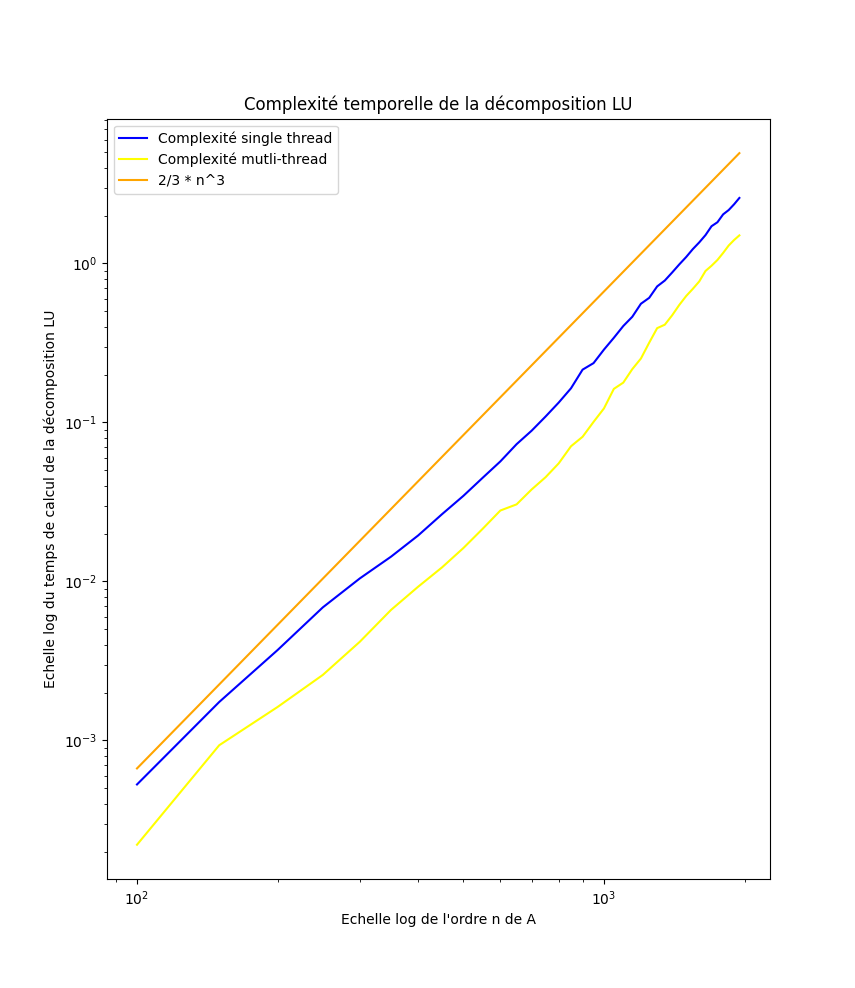
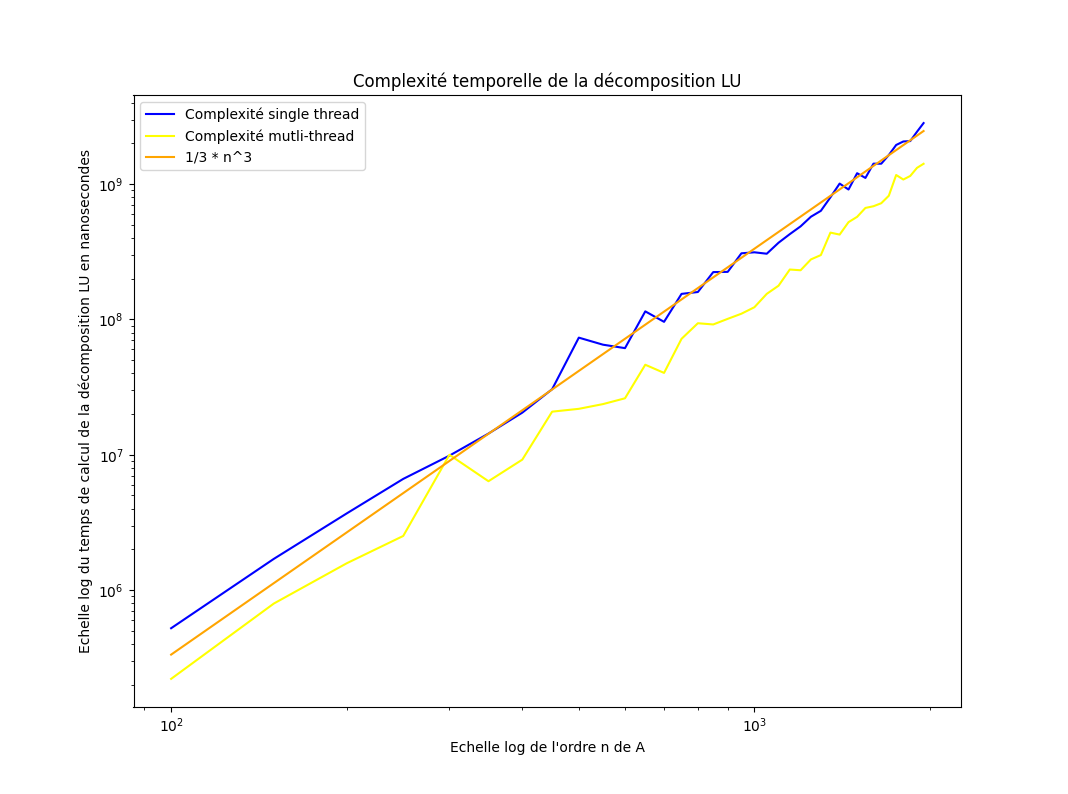
Correction to complexity graph

diff --git a/Devoir 2/decompositionLU.py b/Devoir 2/decompositionLU.py
@@ -37,10 +37,10 @@ def para_lu_factorization(A):
 # Dummy example to compile code with numba :
 A = np.array([[4, 3], [6, 3]], dtype=float)
 x = np.array([1,2], dtype=float)
-t1 = time.time()
+t1 = time.perf_counter()
 L, U = lu_factorization(A)
 L, U = para_lu_factorization(A)
-t2 = time.time()
+t2 = time.perf_counter()
 CompileTime = t2 - t1
 
 
@@ -49,23 +49,23 @@ times = np.zeros((ns.size))
 paraTimes = np.zeros((ns.size))
 for i in range(ns.size):
     A = np.random.randn(ns[i],ns[i])
-    t1 = time.time()
+    t1 = time.perf_counter_ns()
     L, U = lu_factorization(A)
-    t2 = time.time()
+    t2 = time.perf_counter_ns()
     times[i] = t2-t1
-    t1 = time.time()
+    t1 = time.perf_counter_ns()
     L, U = para_lu_factorization(A)
-    t2 = time.time()
+    t2 = time.perf_counter_ns()
     paraTimes[i] = t2-t1
 
 
 plt.loglog(ns, times, label="Complexité single thread", color="blue")
 plt.loglog(ns, paraTimes, label="Complexité mutli-thread", color="yellow")
-plt.loglog(ns, 2/3 * ns**3 * 1e-9,color="orange", label="2/3 * n^3")
+plt.loglog(ns, 1/3 * ns**3,color="orange", label="1/3 * n^3")
 plt.title("Complexité temporelle de la décomposition LU")
 plt.xlabel("Echelle log de l'ordre n de A")
-plt.ylabel("Echelle log du temps de calcul de la décomposition LU")
+plt.ylabel("Echelle log du temps de calcul de la décomposition LU en nanosecondes")
 plt.legend()
 plt.show()
 
-print(f"Compile = {CompileTime}, Compute = {np.sum(times) + np.sum(paraTimes)}")
+print(f"Compile = {CompileTime}, Compute = {(np.sum(times) + np.sum(paraTimes))*1e-9}")

diff --git a/Devoir 2/unitTests.py b/Devoir 2/unitTests.py
@@ -1,3 +1,26 @@
 import numpy as np
+import matplotlib.pyplot as plt
 
-print(np.linspace(1,10, 10,dtype=int))
+A = np.random.randn(5,3)
+
+# L = np.tril(A)
+# U = np.triu(A)
+# 
+# ltl = L.T @ L
+# utu = U.T @ U
+# ll = L @ L
+# uu = U @ U
+# 
+# fig, axs = plt.subplots(2,2)
+# axs[0][0].imshow(ltl, cmap="Blues", label="ltl")
+# axs[0][0].set_title("L.T @ L")
+# axs[0][1].imshow(utu, cmap="Blues", label="utu")
+# axs[0][1].set_title("U.T @ U")
+# axs[1][0].imshow(ll, cmap="Blues", label="ll")
+# axs[1][0].set_title("L @ L")
+# axs[1][1].imshow(uu, cmap="Blues", label="uu")
+# axs[1][1].set_title("U @ U")
+
+
+plt.imshow(A.T @ A, cmap="Blues")
+plt.show()
